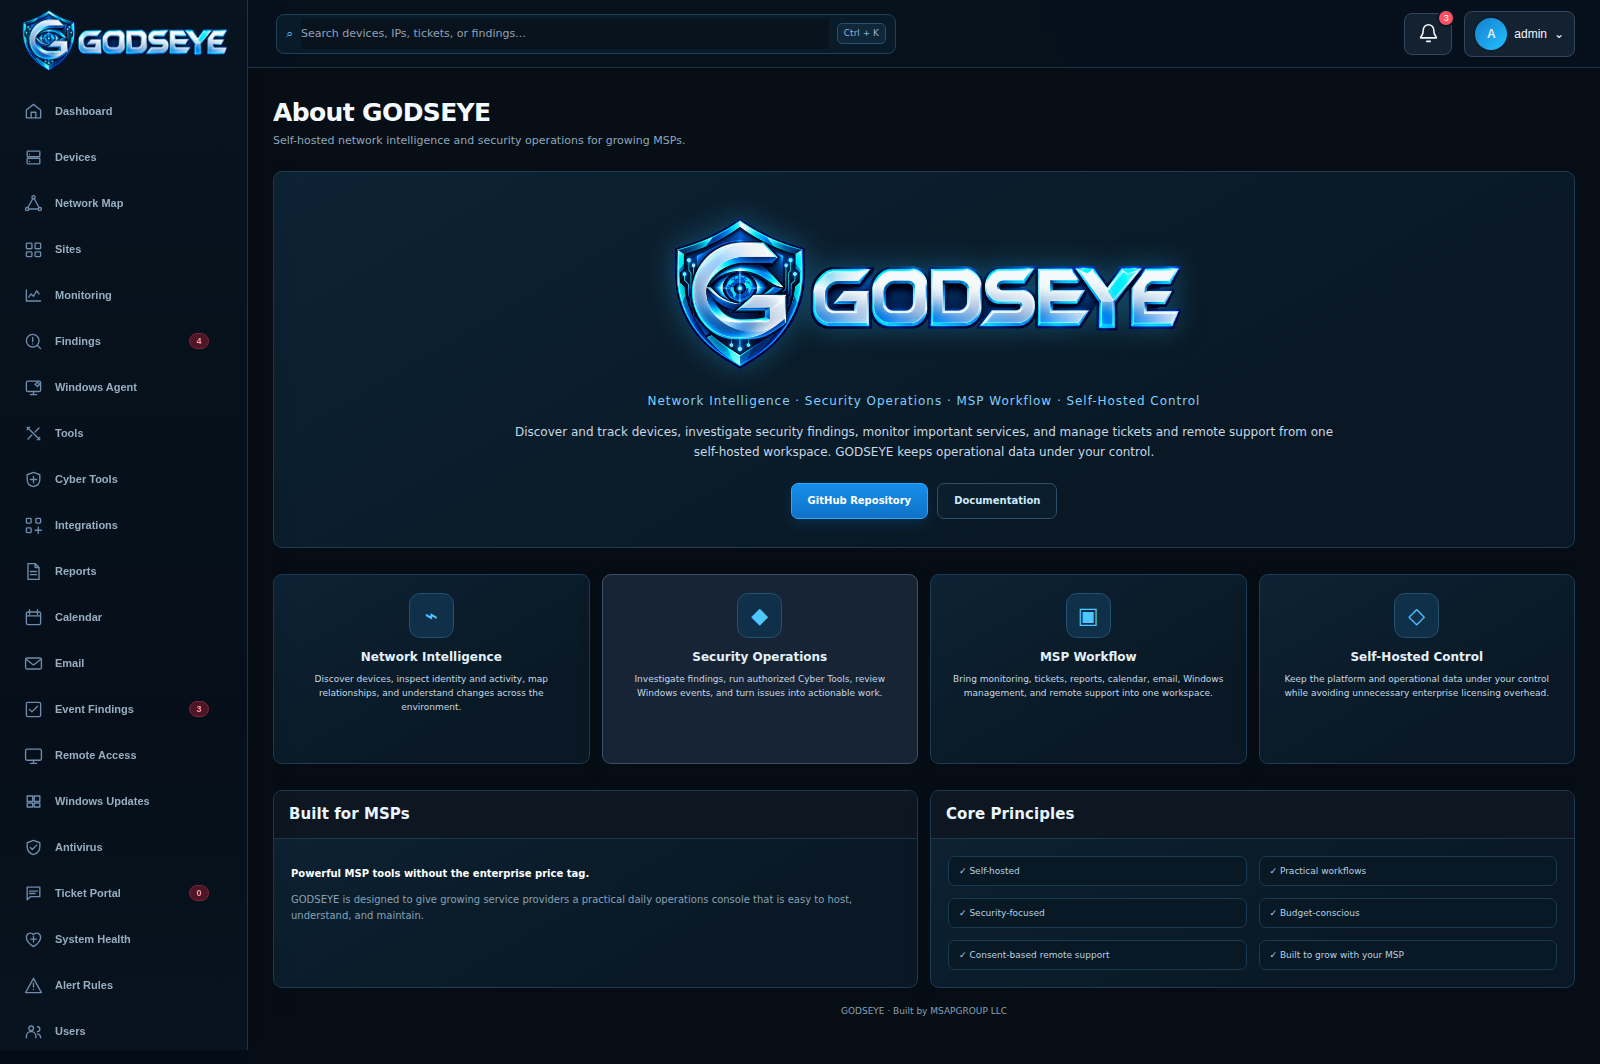
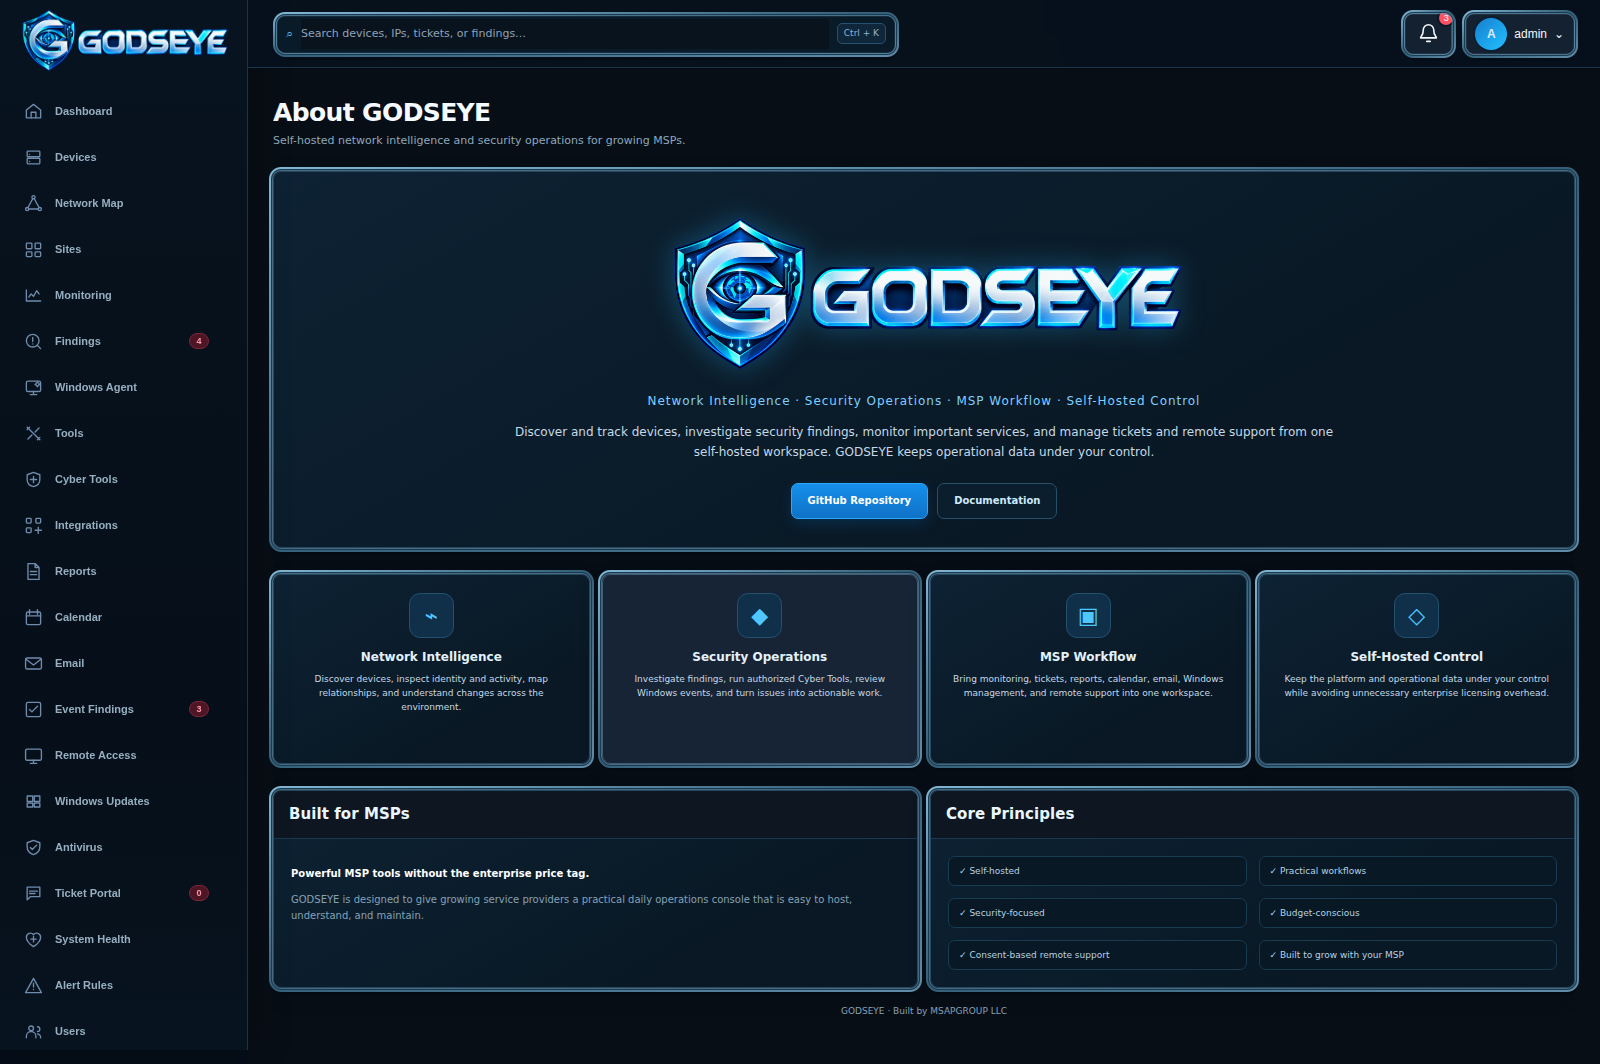
Apply continuous card rims across GODSEYE and refresh screenshot gallery

diff --git a/app/main.py b/app/main.py
@@ -6827,6 +6827,26 @@ html[data-theme="dark"] .badge{box-shadow:none!important}
 @media(max-width:1000px){.about-feature-grid{grid-template-columns:repeat(2,minmax(0,1fr))}.about-info-grid{grid-template-columns:1fr}}@media(max-width:620px){.about-feature-grid{grid-template-columns:1fr}.about-brand-lockup{flex-direction:column}.about-wordmark{width:210px}.about-principles{grid-template-columns:1fr}}
 
 .about-page-heading{margin-bottom:12px!important;text-align:left}.about-page-heading h1{margin:0 0 4px!important}
+
+/* Continuous raised rim: one rounded edge around every workspace surface. */
+html[data-theme="dark"] :is(.card,.panel,.tool-card,.integration-card,.analytics-card,.notify-card,.report-type-card,.report-section-card,.calendar-main-card,.calendar-side-block,.email-shell,.v430-email-account-card,.remote-computers,.remote-session-panel,.windows-update-card,.antivirus-card,.windows-agent-row,.windows-source-row,.site-card,.authcard,.setup-card,.modal){
+  border:1px solid #3d6b86!important;
+  border-radius:11px!important;
+  box-shadow:inset 0 1px 0 rgba(166,214,238,.35),inset 1px 0 0 rgba(110,172,205,.19),inset -1px 0 0 rgba(110,172,205,.17),inset 0 -1px 0 rgba(87,142,173,.26),0 0 0 2px #132f43,0 3px 0 2px #23465e,0 9px 16px rgba(0,0,0,.34)!important;
+}
+html[data-theme="dark"] :is(.v430-global-search,.v430-bell,.user-chip,.headerbar .theme-toggle,.authcard .input,.authcard button.primary,.about-actions .about-button){
+  border:1px solid #3b6b89!important;
+  border-radius:9px!important;
+  box-shadow:inset 0 1px 0 rgba(153,208,239,.27),inset 1px 0 0 rgba(112,170,199,.12),inset 0 -1px 0 rgba(96,153,187,.2),0 0 0 1px #102d42,0 2px 0 1px #24475e,0 5px 10px rgba(0,0,0,.23)!important;
+}
+html[data-theme="dark"] :is(.card,.tool-card,.integration-card,.report-type-card,.report-section-card):hover{
+  border-color:#69a9cf!important;
+  box-shadow:inset 0 1px 0 rgba(196,235,255,.42),inset 1px 0 0 rgba(142,200,229,.2),inset 0 -1px 0 rgba(114,180,215,.27),0 0 0 2px #1c4562,0 3px 0 2px #316585,0 10px 18px rgba(0,0,0,.35)!important;
+}
+html[data-theme="dark"] .v430-global-search:focus-within{border-color:#7acbfa!important;box-shadow:inset 0 1px 0 rgba(205,240,255,.4),0 0 0 2px #164a70,0 2px 0 2px #315e7e,0 0 0 5px rgba(35,152,225,.13)!important}
+@media(max-width:700px){html[data-theme="dark"] :is(.card,.panel,.authcard,.v430-global-search){box-shadow:inset 0 1px 0 rgba(166,214,238,.28),0 0 0 1px #173a52,0 2px 0 1px #24465c,0 6px 11px rgba(0,0,0,.28)!important}}
+html:not([data-theme="dark"]) :is(.card,.panel,.tool-card,.integration-card,.analytics-card,.notify-card,.report-type-card,.report-section-card,.authcard,.modal){border:1px solid #8bb1ca!important;border-radius:11px!important;box-shadow:inset 0 1px 0 #fff,inset 1px 0 0 rgba(255,255,255,.65),0 0 0 2px #dbe9f3,0 3px 0 2px #a5c4d8,0 8px 16px rgba(25,53,73,.13)!important}
+html:not([data-theme="dark"]) :is(.v430-global-search,.v430-bell,.user-chip,.authcard .input,.authcard button.primary){border-radius:9px!important;box-shadow:inset 0 1px 0 rgba(255,255,255,.6),0 0 0 1px #d9e9f2,0 2px 0 1px #a6c7dc,0 5px 10px rgba(27,59,84,.12)!important}
 </style><link rel="stylesheet" href="/assets/sites.css"></head>
 <body>
 <div id="authOverlay" class="overlay" style="display:none">

diff --git a/docs/SCREENSHOTS.md b/docs/SCREENSHOTS.md
@@ -1,6 +1,6 @@
 # GODSEYE screen gallery
 
-These images are captured from the redesigned running GODSEYE application using the repository's automated UI capture workflow. They use a clean local screenshot database, so empty or zero states represent a fresh installation rather than sample customer data.
+The original application states were captured from a running GODSEYE instance with the repository's automated UI capture workflow. The card, search, and login borders in this gallery were visually refreshed from those captures to show the new continuous rim treatment. The figures and customer data remain those of the original captures. Run `scripts/capture_ui.py` with a browser to recapture the installed build directly.
 
 ## Sign in
 
